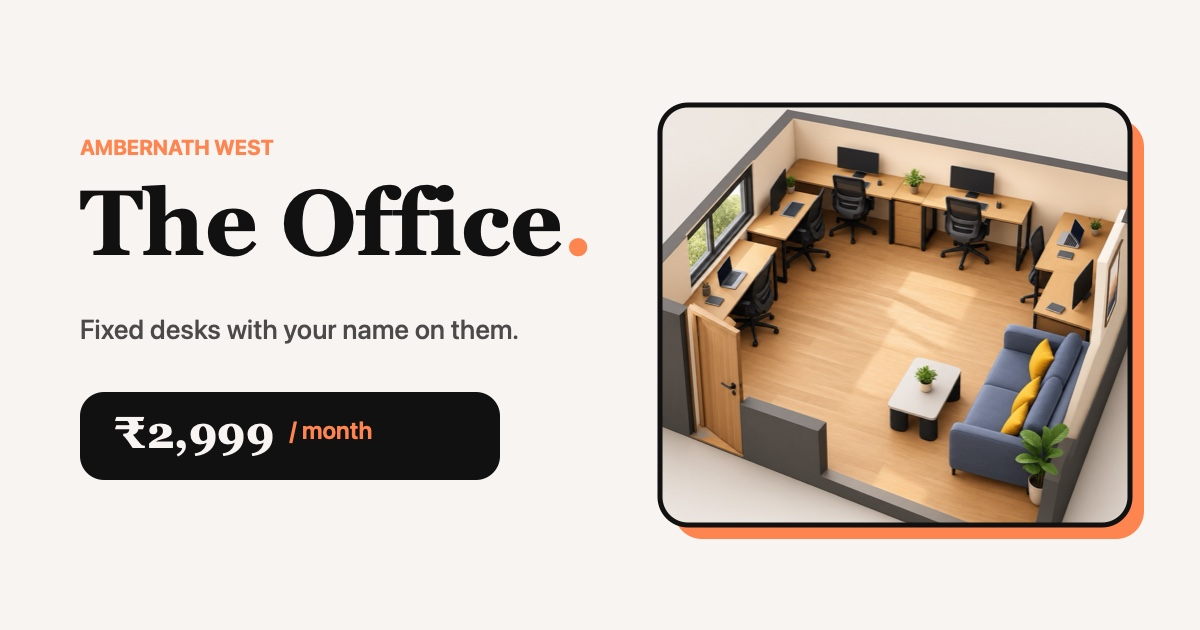
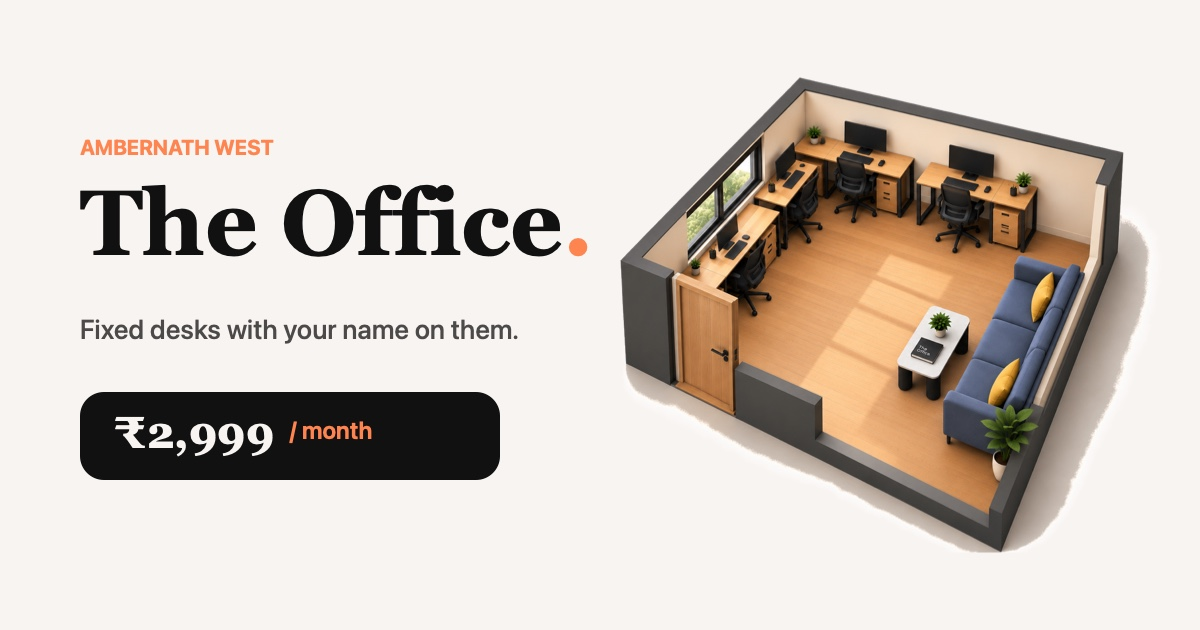
Swap in the new hero render
Same cutout pipeline as before, run against the new PNG. A PNG source
instead of a JPEG means no compression noise at the edges, so the key is
cleaner, though this render's ground shadow is wider and needed a higher
threshold to clear.

The new render is nearly square (1239x1080) where the old one was 3:2, so
the hero box ratio follows it. That made the room render smaller, because
the height cap became the binding constraint. The text column is 473px
against the photo's 368px, so there was room to grow: raising the cap from
46vh to 54vh puts the box back to 486x424 at 1280x800 without costing any
above-the-fold clearance.

Regenerates the share card from the new render, unframed, matching how the
hero now reads.

Keeps the untouched original as hero-interior-source.png. The previous one
was discarded after conversion, which left nothing to re-cut from.

Changed region(s): [[0.4933, 0.1206, 0.9558, 0.8746]]

diff --git a/index.html b/index.html
@@ -102,7 +102,7 @@
     .hero-inner .hero-badge { margin-bottom: clamp(0.75rem, 2.5vh, 2.25rem); }
     .hero-inner .hero-copy  { margin-top:    clamp(1rem, 3vh, 2.5rem); }
     .hero-inner .hero-cta   { margin-top:    clamp(1rem, 3vh, 2rem); }
-    .hero-photo             { max-height: 46vh; }
+    .hero-photo             { max-height: 54vh; }
   }
 
   /* Fluid headline sizing so the big type never breaks on a 360px phone */
@@ -276,12 +276,12 @@
     </div>
       </div>
 
-      <figure class="photo-ph hero-photo aspect-[3/2]">
+      <figure class="photo-ph hero-photo aspect-[1239/1080]">
         <picture>
           <source srcset="images/hero-interior-cutout.webp" type="image/webp" />
           <img src="images/hero-interior-cutout.png"
                alt="Inside The Office: five desks with ergonomic chairs, a window, and a sofa lounge corner"
-               width="1158" height="780" fetchpriority="high" decoding="async" />
+               width="1239" height="1080" fetchpriority="high" decoding="async" />
         </picture>
       </figure>
     </div>

diff --git a/README.md b/README.md
@@ -36,7 +36,9 @@ Then visit <http://localhost:4321>.
 
 ```
 index.html                          the page
-images/hero-interior.jpg            interior render, used in the hero
+images/hero-interior-cutout.webp    interior render, background removed (hero)
+images/hero-interior-cutout.png     PNG fallback for the above
+images/hero-interior-source.png     untouched original, kept for re-cutting
 images/master-business-center.jpg   the building, used in Visit Us
 images/og-cover.jpg                 1200x630 card shown when the link is shared
 icons/favicon.svg                   scalable favicon
